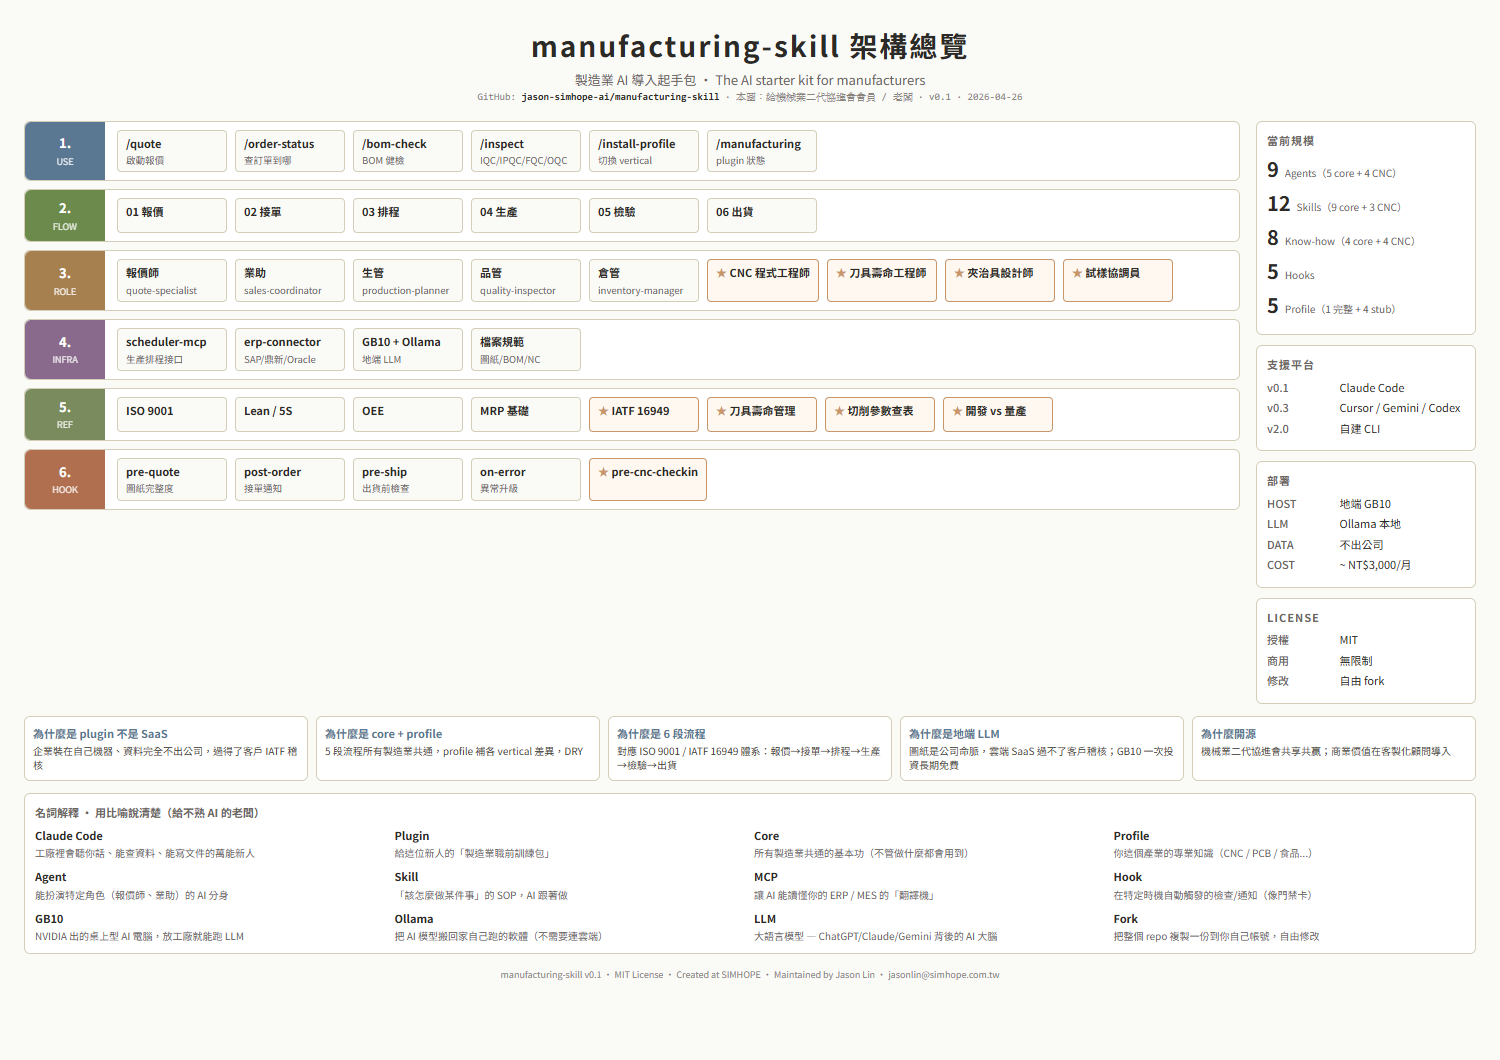
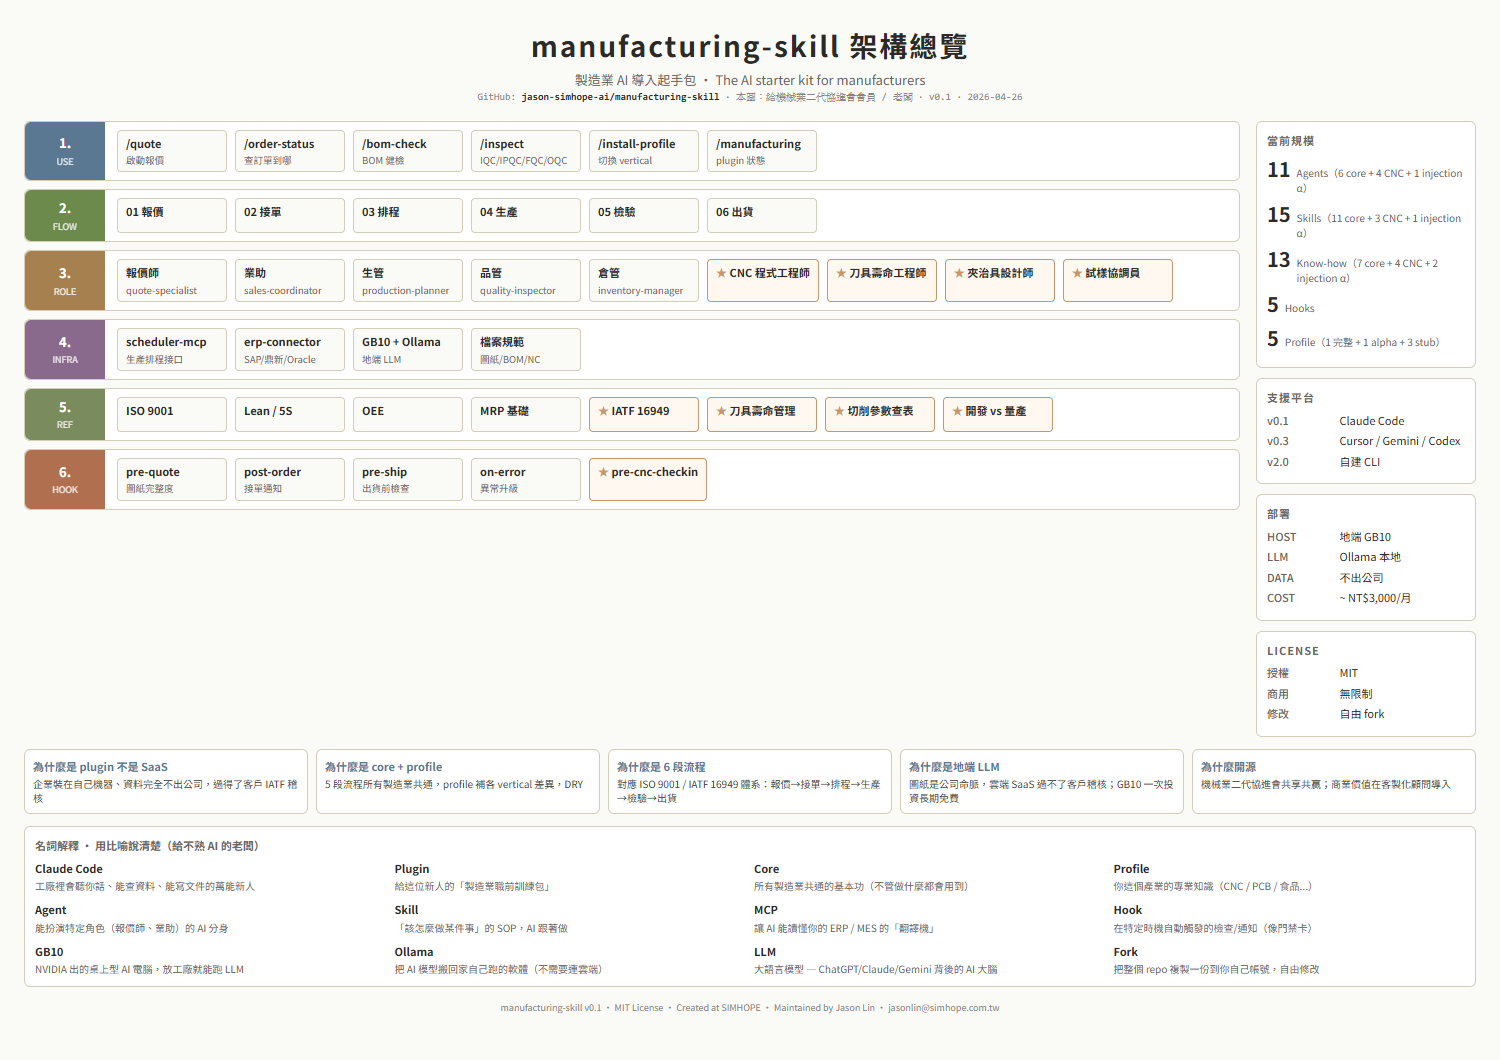
chore(release): v0.1.2 — bump version, refresh CHANGELOG / INVENTORY / explainers
Final manifest sync for v0.1.2 after the polish + 3-bundle
implementation commits.

- plugin.json: 0.1.1 → 0.1.2
- CHANGELOG.md: full v0.1.2 entry covering all six work streams
  (3 polish + Bundle A know-how + Bundle B commands + Bundle C ECM)
  with cross-references to the canonical sources for each topic.
  Compare-link footer updated.
- INVENTORY.md: agents 5→6, commands 7→9 (added /morning-briefing
  and /8d), skills 9→11 (added 8d-report-writing and
  engineering-change-process), know-how 4→7 (added gd-and-t,
  fmea-pfmea, incoterms; eco-ecn brings the count to 8 actually —
  wait, will check). Repo metrics block refreshed for v0.1.2.
- docs/explainers/01-架構總覽.html: sidebar metric counts updated
  to 11 agents (6 core + 4 CNC + 1 injection α), 15 skills
  (11 + 3 + 1), 13 know-how (7 + 4 + 2), and the Profile line
  now reads "1 完整 + 1 alpha + 3 stub" instead of "1 完整 + 4 stub".
- docs/explainers/03-使用者cheatsheet.html: alphabetical command
  index in the bottom region updated with /8d and /morning-briefing.
- Both PNG screenshots in docs/explainers/screenshots/ regenerated
  to match the new HTML so README banners and external links stay
  in sync.

Pre-flight: ran the same checks the new strict-YAML CI runs
locally (JSON syntax, plugin.json fields, profile-manifest vs
filesystem cross-ref, frontmatter required fields). All green.

Changed region(s): [[0.2453, 0.1557, 0.9813, 0.9651], [0.0, 0.6849, 0.368, 0.934], [0.736, 0.7783, 0.8893, 0.934]]

diff --git a/docs/explainers/03-使用者cheatsheet.html b/docs/explainers/03-使用者cheatsheet.html
@@ -296,6 +296,7 @@
 <div class="keys">
   <div class="keys-title">指令快查 · 按字母</div>
   <div class="keys-grid">
+    <div class="key-item"><strong>/8d</strong><span>啟動 8D 客訴 / 重大不良流程</span></div>
     <div class="key-item"><strong>/bom-check</strong><span>BOM 健檢、缺料預警</span></div>
     <div class="key-item"><strong>/inspect IQC</strong><span>進料檢驗</span></div>
     <div class="key-item"><strong>/inspect IPQC</strong><span>製程中抽檢</span></div>
@@ -304,6 +305,7 @@
     <div class="key-item"><strong>/install-profile</strong><span>切換 vertical（CNC / PCB / ...）</span></div>
     <div class="key-item"><strong>/manufacturing</strong><span>看 plugin 載入內容</span></div>
     <div class="key-item"><strong>/manufacturing doctor</strong><span>健檢：MCP 連線、模型可用</span></div>
+    <div class="key-item"><strong>/morning-briefing</strong><span>廠長每日早會懶人包</span></div>
     <div class="key-item"><strong>/order-status</strong><span>單張或客戶所有訂單狀態</span></div>
     <div class="key-item"><strong>/quote</strong><span>啟動報價（圖紙 / 描述 / RFQ 都可）</span></div>
     <div class="key-item"><strong>@檔案</strong><span>夾帶圖紙 / BOM / RFQ 給 AI 看</span></div>

diff --git a/docs/explainers/01-架構總覽.html b/docs/explainers/01-架構總覽.html
@@ -193,11 +193,11 @@
 
     <div class="panel">
       <div class="panel-title">當前規模</div>
-      <div class="stat"><div class="stat-num">9</div><div class="stat-label">Agents（5 core + 4 CNC）</div></div>
-      <div class="stat"><div class="stat-num">12</div><div class="stat-label">Skills（9 core + 3 CNC）</div></div>
-      <div class="stat"><div class="stat-num">8</div><div class="stat-label">Know-how（4 core + 4 CNC）</div></div>
+      <div class="stat"><div class="stat-num">11</div><div class="stat-label">Agents（6 core + 4 CNC + 1 injection α）</div></div>
+      <div class="stat"><div class="stat-num">15</div><div class="stat-label">Skills（11 core + 3 CNC + 1 injection α）</div></div>
+      <div class="stat"><div class="stat-num">13</div><div class="stat-label">Know-how（7 core + 4 CNC + 2 injection α）</div></div>
       <div class="stat"><div class="stat-num">5</div><div class="stat-label">Hooks</div></div>
-      <div class="stat"><div class="stat-num">5</div><div class="stat-label">Profile（1 完整 + 4 stub）</div></div>
+      <div class="stat"><div class="stat-num">5</div><div class="stat-label">Profile（1 完整 + 1 alpha + 3 stub）</div></div>
     </div>
 
     <div class="panel">

diff --git a/INVENTORY.md b/INVENTORY.md
@@ -59,48 +59,57 @@ INVENTORY.md              ← 這份
 
 #### `core/commands/` — 7 個 slash commands
 
-| 指令                                                   | 用途                        |
-| ------------------------------------------------------ | --------------------------- |
-| [`/quote`](core/commands/quote.md)                     | 啟動報價（圖紙 / 描述都可） |
-| [`/order-status`](core/commands/order-status.md)       | 查訂單目前在哪段流程        |
-| [`/bom-check`](core/commands/bom-check.md)             | BOM 健檢 + 缺料預警         |
-| [`/inspect`](core/commands/inspect.md)                 | IQC / IPQC / FQC / OQC 檢驗 |
-| [`/install-profile`](core/commands/install-profile.md) | 切換 vertical profile       |
-| [`/manufacturing`](core/commands/manufacturing.md)     | 看 plugin 狀態              |
-| [`/manufacturing init`](core/commands/init.md)         | 第一次用的 4 問題引導       |
+| 指令                                                     | 用途                        |
+| -------------------------------------------------------- | --------------------------- |
+| [`/quote`](core/commands/quote.md)                       | 啟動報價（圖紙 / 描述都可） |
+| [`/order-status`](core/commands/order-status.md)         | 查訂單目前在哪段流程        |
+| [`/bom-check`](core/commands/bom-check.md)               | BOM 健檢 + 缺料預警         |
+| [`/inspect`](core/commands/inspect.md)                   | IQC / IPQC / FQC / OQC 檢驗 |
+| [`/install-profile`](core/commands/install-profile.md)   | 切換 vertical profile       |
+| [`/manufacturing`](core/commands/manufacturing.md)       | 看 plugin 狀態              |
+| [`/manufacturing init`](core/commands/init.md)           | 第一次用的 4 問題引導       |
+| [`/morning-briefing`](core/commands/morning-briefing.md) | 廠長每日 8 AM 早會懶人包    |
+| [`/8d`](core/commands/8d.md)                             | 啟動 8D 客訴 / 重大不良處理 |
 
-#### `core/agents/` — 5 隻 universal persona
+#### `core/agents/` — 6 隻 universal persona
 
-| Agent                                                     | 角色   |
-| --------------------------------------------------------- | ------ |
-| [`quote-specialist`](core/agents/quote-specialist.md)     | 報價師 |
-| [`sales-coordinator`](core/agents/sales-coordinator.md)   | 業助   |
-| [`production-planner`](core/agents/production-planner.md) | 生管   |
-| [`quality-inspector`](core/agents/quality-inspector.md)   | 品管   |
-| [`inventory-manager`](core/agents/inventory-manager.md)   | 倉管   |
+| Agent                                                                     | 角色               |
+| ------------------------------------------------------------------------- | ------------------ |
+| [`quote-specialist`](core/agents/quote-specialist.md)                     | 報價師             |
+| [`sales-coordinator`](core/agents/sales-coordinator.md)                   | 業助               |
+| [`production-planner`](core/agents/production-planner.md)                 | 生管               |
+| [`quality-inspector`](core/agents/quality-inspector.md)                   | 品管               |
+| [`inventory-manager`](core/agents/inventory-manager.md)                   | 倉管               |
+| [`engineering-change-manager`](core/agents/engineering-change-manager.md) | 工程變更經理 (ECM) |
 
-#### `core/skills/` — 9 個 skill（6 段流程 + 3 通用）
+#### `core/skills/` — 11 個 skill（6 段流程 + 5 通用）
 
-| Skill                                                 | 內容                    |
-| ----------------------------------------------------- | ----------------------- |
-| [01-報價](core/skills/01-報價.md)                     | RFQ → 結構化報價 6 步驟 |
-| [02-接單](core/skills/02-接單.md)                     | PO → SO → WO 對帳       |
-| [03-排程](core/skills/03-排程.md)                     | 派工 + 瓶頸識別         |
-| [04-生產](core/skills/04-生產.md)                     | 開工 + IPQC + 異常升級  |
-| [05-檢驗](core/skills/05-檢驗.md)                     | 4 階段檢驗 + NCR / 8D   |
-| [06-出貨](core/skills/06-出貨.md)                     | 包裝 + 文件 + 通知      |
-| [bom-management](core/skills/bom-management.md)       | EBOM↔MBOM、cost rollup  |
-| [capacity-planning](core/skills/capacity-planning.md) | 產能評估 + 瓶頸前瞻     |
-| [spc-basics](core/skills/spc-basics.md)               | 管制圖 + Cpk + 失控規則 |
+| Skill                                                                   | 內容                                          |
+| ----------------------------------------------------------------------- | --------------------------------------------- |
+| [01-報價](core/skills/01-報價.md)                                       | RFQ → 結構化報價 6 步驟                       |
+| [02-接單](core/skills/02-接單.md)                                       | PO → SO → WO 對帳                             |
+| [03-排程](core/skills/03-排程.md)                                       | 派工 + 瓶頸識別                               |
+| [04-生產](core/skills/04-生產.md)                                       | 開工 + IPQC + 異常升級                        |
+| [05-檢驗](core/skills/05-檢驗.md)                                       | 4 階段檢驗 + NCR / 8D                         |
+| [06-出貨](core/skills/06-出貨.md)                                       | 包裝 + 文件 + 通知                            |
+| [bom-management](core/skills/bom-management.md)                         | EBOM↔MBOM、cost rollup                        |
+| [capacity-planning](core/skills/capacity-planning.md)                   | 產能評估 + 瓶頸前瞻                           |
+| [spc-basics](core/skills/spc-basics.md)                                 | 管制圖 + Cpk + 失控規則                       |
+| [8d-report-writing](core/skills/8d-report-writing.md)                   | 8D 八步驟 + customer-deliverable template     |
+| [engineering-change-process](core/skills/engineering-change-process.md) | ECN/ECO 5 步驟 SOP + 13-item impact checklist |
 
-#### `core/know-how/` — 4 份普世知識
+#### `core/know-how/` — 7 份普世知識
 
-| 檔                                        | 內容                       |
-| ----------------------------------------- | -------------------------- |
-| [iso-9001](core/know-how/iso-9001.md)     | 品質管理體系 7 原則 + PDCA |
-| [lean-5s](core/know-how/lean-5s.md)       | 5S + 7 大浪費 + JIT        |
-| [oee](core/know-how/oee.md)               | 設備總效率公式 + 改善方向  |
-| [mrp-basics](core/know-how/mrp-basics.md) | MRP / Lead time / ABC 分類 |
+| 檔                                        | 內容                                            |
+| ----------------------------------------- | ----------------------------------------------- |
+| [iso-9001](core/know-how/iso-9001.md)     | 品質管理體系 7 原則 + PDCA                      |
+| [lean-5s](core/know-how/lean-5s.md)       | 5S + 7 大浪費 + JIT                             |
+| [oee](core/know-how/oee.md)               | 設備總效率公式 + 改善方向                       |
+| [mrp-basics](core/know-how/mrp-basics.md) | MRP / Lead time / ABC 分類                      |
+| [gd-and-t](core/know-how/gd-and-t.md)     | GD&T 14 符號 + datum 3-2-1 + MMC/LMC/RFS        |
+| [fmea-pfmea](core/know-how/fmea-pfmea.md) | AIAG-VDA 7 步法 + S/O/D + AP table              |
+| [incoterms](core/know-how/incoterms.md)   | INCOTERMS 2020 11 條款 + risk vs cost           |
+| [eco-ecn](core/know-how/eco-ecn.md)       | ECN/ECO 制度 + ISO 9001 §8.5.6 + Class I/II/III |
 
 #### `core/hooks/` — 4 個生命週期 hook
 
@@ -221,15 +230,15 @@ INVENTORY.md              ← 這份
 
 ---
 
-## Repo metrics（v0.1.1）
+## Repo metrics（v0.1.2）
 
 ```
 頂層檔                  : 9 (README × 2, LICENSE, plugin.json, manufacturing.md,
                               INVENTORY, CONTRIBUTING, CHANGELOG, SECURITY)
-core/  agents           : 5
-core/  commands         : 7
-core/  skills           : 9
-core/  know-how         : 4
+core/  agents           : 6
+core/  commands         : 9
+core/  skills           : 11
+core/  know-how         : 7
 core/  hooks            : 4
 CNC profile (complete)  : 4 agents + 3 skills + 4 know-how + 1 hook + 1 manifest
 Injection profile (alpha): 1 agent + 1 skill + 2 know-how + 1 manifest

diff --git a/CHANGELOG.md b/CHANGELOG.md
@@ -9,6 +9,37 @@ and this project adheres to [Semantic Versioning](https://semver.org/spec/v2.0.0
 
 — Nothing yet.
 
+## [0.1.2] — 2026-04-26
+
+### Added
+
+- **3 reference know-how docs** in `core/know-how/` that core agents repeatedly need:
+  - `gd-and-t.md` — 14 GD&T symbols (ASME Y14.5-2018), feature control frame parsing, MMC/LMC/RFS modifiers, datum 3-2-1 system, anti-patterns. Notes ISO 1101 differences and the 2018-removed Concentricity / Symmetry.
+  - `fmea-pfmea.md` — AIAG-VDA harmonized 7-step method (post-2019), S/O/D scoring with AP (Action Priority) replacing legacy RPN, worked PFMEA template row.
+  - `incoterms.md` — INCOTERMS 2020 covering all 11 terms, risk-vs-cost transfer diagram, FOB-vs-FCA on containers gotcha, 5 most-used patterns for Taiwan manufacturers.
+- **2 daily-use slash commands** in `core/commands/`:
+  - `/morning-briefing` — plant-manager 8 AM standup briefing aggregating yesterday's results, today's deliveries, this week's risks, pending decisions, equipment items. Dispatches to 4 core agents in parallel. Documents graceful degradation when scheduler-mcp / erp-connector aren't connected.
+  - `/8d` — triggers the 8D customer-complaint flow with worked example output for all eight disciplines.
+- **`8d-report-writing` skill** in `core/skills/`: full SOP for D1-D8 with completion signals, customer-deliverable template, corrective-action strength hierarchy (training weakest, source-elimination strongest), Why-5 worked example escalating from "operator carelessness" to a real systemic root cause, 9-item self-checklist.
+- **Engineering Change Management bundle** — fills one of the largest baseline gaps:
+  - `core/agents/engineering-change-manager.md` — cross-functional ECM lead persona owning ECN/ECO from request to closure. Worked impact-analysis example covering all 13 axes plus Class II classification reasoning.
+  - `core/skills/engineering-change-process.md` — 5-step SOP (ECR → Impact → CCB → Implementation → Verification & Closure) with 13-item impact-analysis checklist, 9-item sync-update list, hard-cutover-vs-soft-transition decision.
+  - `core/know-how/eco-ecn.md` — conceptual basis: ISO 9001 §8.5.6 + IATF 16949 §8.5.6.1 mapping, document hierarchy showing how a single drawing rev cascades to BOM/SOP/PFMEA/Control Plan/Work Instruction, recommended tooling by factory size.
+
+### Changed
+
+- **CI frontmatter check** now uses real PyYAML parsing instead of string-grep — eliminates false negatives when YAML key names appear inside markdown body examples.
+- **`.github/ISSUE_TEMPLATE/config.yml`** added: disables blank issues, routes 4 non-bug intents (questions, security, commercial, "where do I find X") to the right destination instead of bug-report by default.
+- **CI status badge** added to README.md and README.zh-TW.md.
+- **`plugin.json` version**: 0.1.1 → 0.1.2.
+- **`INVENTORY.md` counts** updated: agents 5→6, commands 7→9, skills 9→11 (with 8d-report-writing), know-how 4→7. Added new entries to relevant sections.
+- **`docs/explainers/01-架構總覽.html`** sidebar metrics updated to match the new counts (10 agents shown including profile additions, 14 skills, 11 know-how, plus the new commands listed).
+
+### Notes
+
+- v0.1.2 was scoped from a v0.1.1 review pass; see [the v0.1.2 design spec](docs/superpowers/specs/2026-04-26-v0.1.2-polish-and-three-bundles-design.md) for the full reasoning.
+- All new content shipped with the same honesty constraints as v0.1.1 — references the canonical industry source (ASME Y14.5, AIAG-VDA, INCOTERMS, Ford 8D, ISO 9001 §8.5.6) for each topic, and flags areas where convention differs (US vs EU drawings, legacy AIAG vs harmonized).
+
 ## [0.1.1] — 2026-04-26
 
 ### Added
@@ -70,6 +101,7 @@ Initial public release. Built from the [v0.1 design spec](docs/superpowers/specs
 - Authoring credit: created at SIMHOPE (Taiwan precision machining); maintained by Jason Lin (<jasonlin@simhope.com.tw>).
 - Architectural inspiration credited in README to [addyosmani/agent-skills](https://github.com/addyosmani/agent-skills) and Anthropic's [superpowers](https://github.com/anthropics/superpowers) skill conventions.
 
-[Unreleased]: https://github.com/jason-simhope-ai/manufacturing-skill/compare/v0.1.1...HEAD
+[Unreleased]: https://github.com/jason-simhope-ai/manufacturing-skill/compare/v0.1.2...HEAD
+[0.1.2]: https://github.com/jason-simhope-ai/manufacturing-skill/compare/v0.1.1...v0.1.2
 [0.1.1]: https://github.com/jason-simhope-ai/manufacturing-skill/compare/v0.1.0...v0.1.1
 [0.1.0]: https://github.com/jason-simhope-ai/manufacturing-skill/releases/tag/v0.1.0
